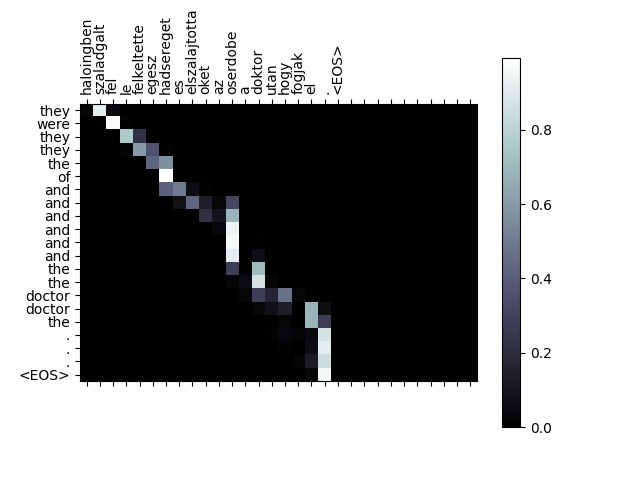
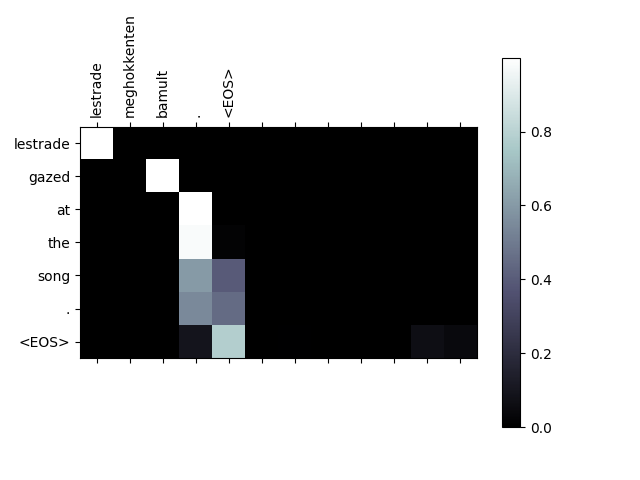
12 words final

diff --git a/main.py b/main.py
@@ -24,7 +24,7 @@ EOS_token = 1
 teacher_forcing_ratio = 0.5
 
 def filterPair(p):
-    return len(p[0].split(' ')) < 30 and len(p[1].split(' ')) < 30
+    return len(p[0].split(' ')) < 12 and len(p[1].split(' ')) < 12
 
 def filterPairs(pairs):
     return [pair for pair in pairs if filterPair(pair)]
@@ -70,7 +70,7 @@ def train(input_tensor, target_tensor, encoder, decoder, encoder_optimizer, deco
     input_length = input_tensor.size(0)
     target_length = target_tensor.size(0)
 
-    encoder_outputs = torch.zeros(30, encoder.hidden_size, device="cuda")
+    encoder_outputs = torch.zeros(12, encoder.hidden_size, device="cuda")
     loss = 0
 
     for ei in range(input_length):
@@ -171,7 +171,7 @@ def evaluate(encoder, decoder, sentence):
         input_length = input_tensor.size()[0]
         encoder_hidden = encoder.initHidden()
 
-        encoder_outputs = torch.zeros(30, encoder.hidden_size, device="cuda")
+        encoder_outputs = torch.zeros(12, encoder.hidden_size, device="cuda")
 
         for ei in range(input_length):
             encoder_output, encoder_hidden = encoder(input_tensor[ei], encoder_hidden)
@@ -182,9 +182,9 @@ def evaluate(encoder, decoder, sentence):
         decoder_hidden = encoder_hidden
 
         decoded_words = []
-        decoder_attentions = torch.zeros(30, 30)
+        decoder_attentions = torch.zeros(12, 12)
 
-        for di in range(30):
+        for di in range(12):
             decoder_output, decoder_hidden, decoder_attention = decoder(decoder_input, decoder_hidden, encoder_outputs)
             decoder_attentions[di] = decoder_attention.data
             topv, topi = decoder_output.data.topk(1)
@@ -225,7 +225,19 @@ def calculate_bleu_score_train(encoder, decoder):
     avg_BLEU = sum / len(pairs)
     print("BLEU train score -> {}".format(avg_BLEU))
 
-def evaluateRandomly(encoder, decoder, n=20):
+def evaluateRandomly(encoder, decoder, n=10):
+
+    print("From train set:")
+    for i in range(n):
+        pair = random.choice(train_pairs)
+        print('>', pair[0])
+        print('=', pair[1])
+        output_words, attentions = evaluate(encoder, decoder, pair[0])
+        output_sentence = ' '.join(output_words)
+        print('<', output_sentence)
+        print('')
+
+    print("From test set:")
     for i in range(n):
         pair = random.choice(test_pairs)
         print('>', pair[0])
@@ -283,14 +295,14 @@ if __name__ == '__main__':
         encoder1 = EncoderRNN.EncoderRNN(input_lang.n_words, hidden_size).to("cuda")
         attn_decoder1 = DecoderRNN.AttnDecoderRNN(hidden_size, output_lang.n_words, dropout_p=0.1).to("cuda")
 
-        epochs = 10
+        epochs = 30
 
         trainIters(encoder1, attn_decoder1, epochs, print_every=10000)
         evaluateRandomly(encoder1, attn_decoder1)
         torch.save(encoder1.state_dict(), "model/encoder.pt")
         torch.save(attn_decoder1.state_dict(), "model/decoder.pt")
-        evaluateAndShowAttention(random.choice(test_pairs)[0], encoder1, attn_decoder1, "attention1")
-        evaluateAndShowAttention(random.choice(test_pairs)[0], encoder1, attn_decoder1, "attention2")
+        evaluateAndShowAttention(random.choice(train_pairs)[0], encoder1, attn_decoder1, "attention1")
+        evaluateAndShowAttention(random.choice(train_pairs)[0], encoder1, attn_decoder1, "attention2")
         evaluateAndShowAttention(random.choice(test_pairs)[0], encoder1, attn_decoder1, "attention3")
         evaluateAndShowAttention(random.choice(test_pairs)[0], encoder1, attn_decoder1, "attention4")
         calculate_bleu_score_train(encoder1, attn_decoder1)
@@ -304,8 +316,8 @@ if __name__ == '__main__':
         encoder.eval()
         attn_decoder.eval()
         evaluateRandomly(encoder, attn_decoder)
-        evaluateAndShowAttention(random.choice(test_pairs)[0], encoder, attn_decoder, "attention1")
-        evaluateAndShowAttention(random.choice(test_pairs)[0], encoder, attn_decoder, "attention2")
+        evaluateAndShowAttention(random.choice(train_pairs)[0], encoder, attn_decoder, "attention1")
+        evaluateAndShowAttention(random.choice(train_pairs)[0], encoder, attn_decoder, "attention2")
         evaluateAndShowAttention(random.choice(test_pairs)[0], encoder, attn_decoder, "attention3")
         evaluateAndShowAttention(random.choice(test_pairs)[0], encoder, attn_decoder, "attention4")
         calculate_bleu_score_train(encoder, attn_decoder)

diff --git a/DecoderRNN.py b/DecoderRNN.py
@@ -11,7 +11,7 @@ class AttnDecoderRNN(nn.Module):
         self.dropout_p = dropout_p
 
         self.embedding = nn.Embedding(self.output_size, self.hidden_size)
-        self.attn = nn.Linear(self.hidden_size * 2, 30)
+        self.attn = nn.Linear(self.hidden_size * 2, 12)
         self.attn_combine = nn.Linear(self.hidden_size * 2, self.hidden_size)
         self.dropout = nn.Dropout(self.dropout_p)
         self.gru = nn.GRU(self.hidden_size, self.hidden_size)

diff --git a/FileReading.py b/FileReading.py
@@ -68,10 +68,10 @@ def readLangs(lang1, lang2, reverse=False):
     print("English length frequencies:", frequency)
 
     freq = []
-    for x in list(frequency)[30:]:
+    for x in list(frequency)[12:]:
         freq.append(frequency[x])
 
-    print("Sentences with more than 30 words:", sum(freq))
+    print("Sentences with more than 12 words:", sum(freq))
 
     if reverse:
         pairs = [list(reversed(p)) for p in pairs]
